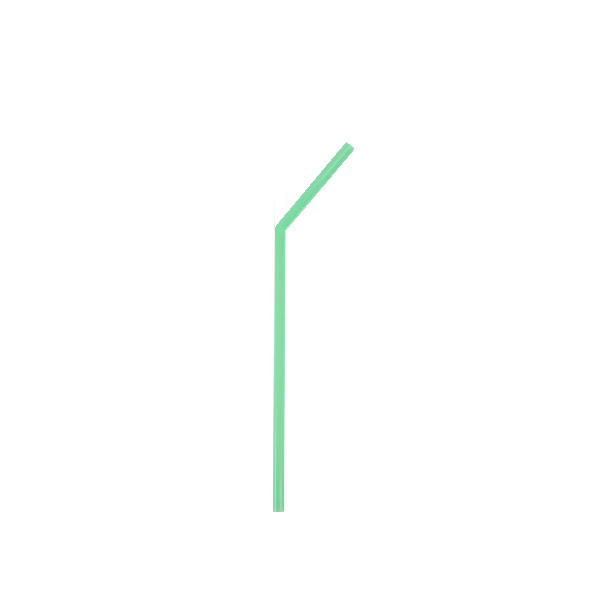
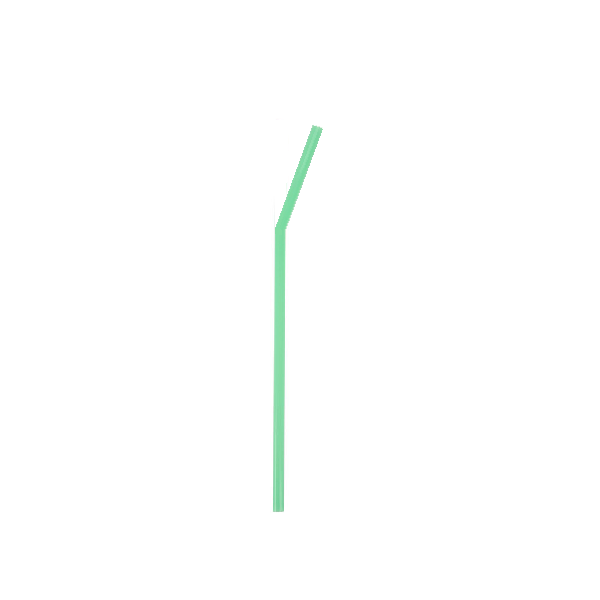
agreement pilot 2

Changed region(s): [[0.45, 0.21, 0.6, 0.39]]

diff --git a/html/prior1objAgreementPilot2.html b/html/prior1objAgreementPilot2.html
@@ -1,0 +1,238 @@
+<html>
+
+<head>
+    <title>Rating descriptions of pictures</title>
+
+    <!--JS-->
+
+    <!-- external general utilities -->
+    <script src="../shared/js/jquery-1.11.1.min.js"></script>
+    <script src="../shared/full-projects/jquery-ui/jquery-ui.min.js"></script>
+    <script src="../shared/js/underscore-min.js"></script>
+    <!-- if you want to draw stuff: -->
+    <!-- <script src="../shared/js/raphael-min.js"></script> -->
+
+    <!-- cocolab experiment logic -->
+    <script src="../shared/js/exp-V2.js"></script>
+    <script src="../shared/js/stream-V2.js"></script>
+
+    <!-- cocolab general utilities -->
+    <script src="../shared/js/mmturkey.js "></script>
+    <script src="../shared/js/browserCheck.js"></script>
+    <script src="../shared/js/utils.js"></script>
+    <!-- if you want to draw cute creatures (depends on raphael): -->
+    <!-- <script src="../shared/js/ecosystem.js"></script> -->
+
+    <!-- experiment specific helper functions -->
+    <!-- <script src="../js/local-utils.js"></script> -->
+
+    <!--CSS-->
+    <link href="../shared/full-projects/jquery-ui/jquery-ui.min.css" rel="stylesheet" type="text/css"/>
+    <link href="../shared/css/cocolab-style.css" rel="stylesheet" type="text/css"/>
+    <link href="../css/local-style.css" rel="stylesheet" type="text/css"/>
+
+    <!-- experiment file -->
+    <script src="../js/stimsPilot2.js"></script>
+    <script src="../js/prior1objAgreement.js"></script>
+
+    <!-- uniqueturker -->
+    <script src="//uniqueturker.myleott.com/lib.js" type="text/javascript"></script>
+    <script type="text/javascript">
+    $(document).ready(function(){
+      var ut_id = "56247e04bfa3ad87664293f4acefaace";   // remember to change this!!
+      if (UTWorkerLimitReached(ut_id)) {
+          $(".slide").hide();
+          $("body").html("You have already completed the maximum number of HITs allowed by this requester. Please click 'Return HIT' to avoid any impact on your approval rating.");
+      }
+    });
+    </script>
+
+</head>
+
+<body onload="init();">
+  <noscript>This task requires JavaScript.</noscript>
+
+  <div class="slide" id="i0" >
+    <p id="cocolab">Stanford Linguistics</p>
+      <p id="instruct-text">This task involves adjusting a slider to rate sentences that describe pictures. It should take ~6 minutes.
+    <br /><b>Before accepting the HIT:</b> You must be a native English speaker to participate. Your screen should be large enough:
+    a desktop, a laptop, or a large tablet is good, but NOT a phone. Please take <b>only 1</b> HIT, thanks!</p>
+        <!-- <p style="font-family:courier; font-size:14px; text-align: justify;">Please note:
+           There will be multiple posted versions of this HIT throughout today and tomorrow.
+            You may work on only one HIT in this series. Thank you!</p>
+             (name: <strong>Language Study - Animals 12</strong>)   -->
+      <button id="start_button" type="button">Start Experiment</button>
+      <p id = 'legal'><b>Legal information</b> We invite you to participate in a research study on language production and comprehension. Your experimenter will ask you to do a linguistic task such as reading sentences or words, naming pictures or describing scenes, making up sentences of your own, or participating in a simple language game.
+        There are no risks or benefits of any kind involved in this study. You will be paid for your participation at the posted rate.
+        If you have read this form and have decided to participate in this experiment,
+        please understand your participation is voluntary and you have the right to withdraw your consent
+         or discontinue participation at any time without penalty or loss of benefits
+         to which you are otherwise entitled. You have the right to refuse
+          to do particular tasks.
+          Your individual privacy will be maintained in all published and written data resulting
+          from the study. You may print this form for your records.<br />
+      <b>Contact information</b> If you have any questions, concerns or complaints about this research study, its procedures, risks and benefits, you should contact the Protocol Director Meghan
+Sumner at (650)-725-9336.
+        If you are not satisfied with how this study is being conducted, or if you have any concerns, complaints, or general questions about the research or your rights as a participant, please contact the Stanford Institutional Review Board (IRB) to speak to someone independent of the research team at (650)-723-2480 or toll free at 1-866-680-2906. You can also write to the Stanford IRB, Stanford University, 3000 El Camino Real, Five Palo Alto Square, 4th Floor, Palo Alto, CA 94306 USA.</p>
+      <p>If you agree to participate, please proceed to the study tasks.</p>
+    </div>
+
+<!--Consent form used in Stanford linguistics department and is good for ling245.
+Otherwise, modified to whatever is required for you given your affliation.
+-->
+<!-- <div class="slide" id="consent">
+  <div id="consent_1">
+  <p>We invite you to participate in a research study on language production and comprehension.
+  Your experimenter will ask you to do a linguistic task such as reading sentences or words,
+  naming pictures or describing scenes, making up sentences of your own, or participating in a
+  simple language game. </p>
+  <p>There are no risks or benefits of any kind involved in this study. </p>
+  <p>You will be paid for your participation at the posted rate. </p>
+  <p>If you have read this form and have decided to participate in this experiment, please
+  understand your participation is voluntary and you have the right to withdraw your consent or
+  discontinue participation at any time without penalty or loss of benefits to which you are
+  otherwise entitled. You have the right to refuse to do particular tasks. Your individual privacy
+  will be maintained in all published and written data resulting from the study.   You may print
+  this form for your records.</p>
+  </div>
+  <div id="consent_2">
+  <p>CONTACT INFORMATION: </p>
+  <p>If you have any questions, concerns or complaints about this research study, its procedures,
+  risks and benefits, you should contact the Protocol Director Penelope Eckert
+  (650)-725-1564 </p>
+  <p>If you are not satisfied with how this study is being conducted, or if you have any concerns,
+  complaints, or general questions about the research or your rights as a participant, please
+  contact the Stanford Institutional Review Board (IRB) to speak to someone independent of the
+  research team at (650)-723-2480 or toll free at 1-866-680-2906. You can also write to the
+  Stanford IRB, Stanford University,
+  3000 El Camino Real, Five Palo Alto Square, 4th Floor,
+  Palo Alto, CA 94306 USA.</p>
+  <p>You may print this contact information for your records.</p>
+  <p>If you agree to participate, please proceed to the study tasks.</p>
+  </div>
+      <button onclick="_s.button()">Continue</button>
+</div> -->
+
+<div class="slide" id="instructions">
+  <h3>Screen calibration</h3>
+  <p>Please adjust the size of the picture below by using
+    the buttons below, until the credit card
+    displayed on the screen is as big as a credit card (or a debit card,
+    or a driver's
+     license) in real life.
+  </p>
+  <img id="imgcalibrate" src="../stimuli/cardCalibrate.jpg" alt="Can't load image. Please report it at the end of the study." height="223px" width="350px">
+  <p>
+  <button onclick="_s.fastshrink()">--</button>
+  <button onclick="_s.shrink()">-</button>
+  <button onclick="_s.enlarge()">+</button>
+  <button onclick="_s.fastenlarge()">++</button>
+</p>
+<p>
+When the calibration is complete, please click on "Continue" to start the task.</p>
+  <button onclick="_s.button()">Continue</button>
+</div>
+
+  <div class="slide" id="one_slider">
+    <!-- <p>Here is one slider. For every trial in this block, you get an input to the 'present_handle' function. You can use that variable to display different prompts:</p> -->
+   <!-- <p>The target object is surrounded by the red lines</p> -->
+   <img id="imgcrit" src="../stimuli/non.png" alt="Can't load image. Please report it at the end of the study." height="350px" width="350px" style="border:1px solid black">
+     <!-- <img id="imgleft" src="../stimuli/bookThick2.png" alt="Can't load image. Please report" height="350px" width="350px" style="border:1px solid black">
+&nbsp;&nbsp;
+     <img id="imgright" src="../stimuli/bookThick3.png" alt="Can't load image. Please report" height="350px" width="350px" style="border:1px solid red"> -->
+    <p id = "description">This [noun] is [adj]</p>
+    <!-- <p><input type="radio"  name="" value="pos"/> thick
+    &nbsp;&nbsp;&nbsp;&nbsp;
+    <input type="radio"  name="" value="pos"/> thicker</p> -->
+    <table id="slider_table" class="slider_table">
+      <tr><td class="left">completely disagree</td><td class="right">completely agree</td></tr>
+      <tr><td colspan="2"><div id="single_slider" class="slider"></div></td></tr>
+    </table>
+    <button onclick="_s.button()">Continue</button>
+    <div class="err">Please adjust the slider before continuing.</div>
+  </div>
+
+
+  <div class="slide"  id="subj_info">
+    <div class="long_form">
+      <div class="subj_info_title">Additional information</div>
+      <p>What kind of device did you use to do this task?</p>
+      <select id="device">
+        <label><option value="-1"></option></label>
+        <label><option value="desktop">Desktop</option></label>
+        <label><option value="laptop" >Laptop</option></label>
+        <label><option value="tablet">Tablet</option></label>
+        <label><option value="phone">Mobile phone</option></label>
+        <label><option value="other">Other</option></label>
+      </select>
+      <p>Native Language: <input type="text" id="language"/></p>
+      <label>(the language(s) spoken at home when you were a child; <b>please answer truthfully
+        and your payment will NOT be affected</b>)</label>
+      <br /><br />
+      <label>Answering the questions below is optional, but will help us understand your answers.</label>
+      <p>Did you read the instructions and do you think you did the HIT correctly?</p>
+      <label><input type="radio"  name="assess" value="No"/>No</label>
+      <label><input type="radio"  name="assess" value="Yes"/>Yes</label>
+      <label><input type="radio"  name="assess" value="Confused"/>I was confused</label>
+
+      <p>Were there any problems or bugs in the experiment?</p>
+      <textarea id="problems" rows="2" cols="50"></textarea>
+
+      <p>What do you think is a fair price for the work you did?</p>
+      <textarea id="fairprice" rows="1" cols="10"></textarea>
+
+      <!-- <p>Gender:
+        <select id="gender">
+          <label><option value=""/></label>
+          <label><option value="Male"/>Male</label>
+          <label><option value="Female"/>Female</label>
+          <label><option value="Other"/>Other</label>
+        </select>
+      </p>
+
+      <p>Age: <input type="text" id="age"/></p>
+
+      <p>Level Of Education:
+        <select id="education">
+          <label><option value="-1"/></label>
+          <label><option value="0"/>Some High School</label>
+          <label><option value="1"/>Graduated High School</label>
+          <label><option value="2"/>Some College</label>
+          <label><option value="3"/>Graduated College</label>
+          <label><option value="4"/>Hold a higher degree</label>
+        </select>
+      </p>
+
+      <p>Native Language: <input type="text" id="language"/></p>
+      <label>(the language(s) spoken at home when you were a child)</label> -->
+
+      <p>Did you enjoy the hit?</p>
+      <select id="enjoyment">
+        <label><option value="-1"></option></label>
+        <label><option value="0">Worse than the Average HIT</option></label>
+        <label><option value="1" >An Average HIT</option></label>
+        <label><option value="2">Better than average HIT</option></label>
+      </select>
+
+      <p>We would be interested in any comments you have about this experiment. Please type them here:</p>
+      <textarea id="comments" rows="3" cols="50"></textarea>
+      <br/>
+      <button id="submit" onclick="_s.submit()">Submit</button>
+      <div class="err">Please tell us about your native language before submitting!</div>
+    </div>
+  </div>
+
+  <div id="thanks" class="slide js" >
+    <p  class="big">Thanks for your Time!</p>
+  </div>
+
+  <div class="progress">
+    <span>Progress:</span>
+    <div class="bar-wrapper">
+      <div class="bar" width="0%">
+      </div>
+    </div>
+  </div>
+
+</body>
+</html>

diff --git a/js/stimsPilot2.js b/js/stimsPilot2.js
@@ -1,0 +1,38 @@
+allStims = [
+  {noun: "pencil", adjective: "long", fileinit: "pencilLong", range:[2,3,5,7,8]},
+  {noun: "pencil", adjective: "short", fileinit: "pencilLong", range:[2,3,5,7,8]},
+  {noun: "glass", adjective: "tall", fileinit: "glassTall", range:[2,3,5,7,8]},
+  {noun: "glass", adjective: "short", fileinit: "glassTall", range:[2,3,5,7,8]},
+  {noun: "strawberry", adjective: "big", fileinit: "strawberryBig", range:[2,3,5,7,8]},
+  {noun: "strawberry", adjective: "small", fileinit: "strawberryBig", range:[2,3,5,7,8]},
+  {noun: "cat", adjective: "fat", fileinit: "catFat", range:[2,3,5,7,8]},
+  {noun: "cat", adjective: "thin", fileinit: "catFat", range:[2,3,5,7,8]},
+  {noun: "book", adjective: "thick", fileinit: "bookThick", range:[2,3,5,7,8]},
+  {noun: "book", adjective: "thin", fileinit: "bookThick", range:[2,3,5,7,8]},
+  {noun: "ladder", adjective: "wide", fileinit: "ladderWide", range:[2,3,5,7,8]},
+  {noun: "ladder", adjective: "narrow", fileinit: "ladderWide", range:[2,3,5,7,8]},
+  {noun: "bowl", adjective: "deep", fileinit: "bowlDeep", range:[2,3,5,7,8]},
+  {noun: "bowl", adjective: "shallow", fileinit: "bowlDeep", range:[2,3,5,7,8]},
+  {noun: "cloud", adjective: "high", fileinit: "cloudHigh", range:[2,3,5,7,8]},
+  {noun: "cloud", adjective: "low", fileinit: "cloudHigh", range:[2,3,5,7,8]},
+  {noun: "rectangle", adjective: "dark", fileinit: "rectangleDark", range:[1,2,3,5,7]},
+  {noun: "rectangle", adjective: "light", fileinit: "rectangleDark", range:[3,5,7,8,9]},
+  {noun: "banana", adjective: "ripe", fileinit: "bananaRipe", range:[1,2,3,5,7]},
+  {noun: "banana", adjective: "raw", fileinit: "bananaRipe", range:[3,5,7,8,9]},
+  {noun: "glass", adjective: "full", fileinit: "glassFull", range:[2,3,5,6,7]},
+  {noun: "glass", adjective: "empty", fileinit: "glassFull", range:[1,2,3,5,7]},
+  {noun: "glass", adjective: "transparent", fileinit: "glassTransparent", range:[2,3,5,7,8]},
+  {noun: "glass", adjective: "opaque", fileinit: "glassTransparent", range:[2,3,5,7,8]},
+  {noun: "gate", adjective: "open", fileinit: "gateOpen", range:[1,3,5,7,8]},
+  {noun: "gate", adjective: "closed", fileinit: "gateOpen", range:[2,3,4,5,6]},
+  {noun: "straw", adjective: "straight", fileinit: "strawStraight", range:[5,7,7,8,8,8]},
+  {noun: "straw", adjective: "bent", fileinit: "strawStraight", range:[5,7,7,8,8,8]},
+  {noun: "cookie", adjective: "round", fileinit: "cookieRound", range:[3,5,7,7,9]},
+  {noun: "plate", adjective: "clean", fileinit: "plateClean", range:[5,6,7,8,9]},
+  {noun: "plate", adjective: "dirty", fileinit: "plateClean", range:[5,6,7,8,9]},
+  {noun: "toast", adjective: "burnt", fileinit: "toastBurnt", range:[1,3,5,7,9]},
+  {noun: "paper", adjective: "torn", fileinit: "paperTorn", range:[1,2,2,3,4]},
+  {noun: "sky", adjective: "cloudy", fileinit: "skyCloudy", range:[2,3,4,5,6]},
+];
+
+allStims = _.shuffle(allStims);
